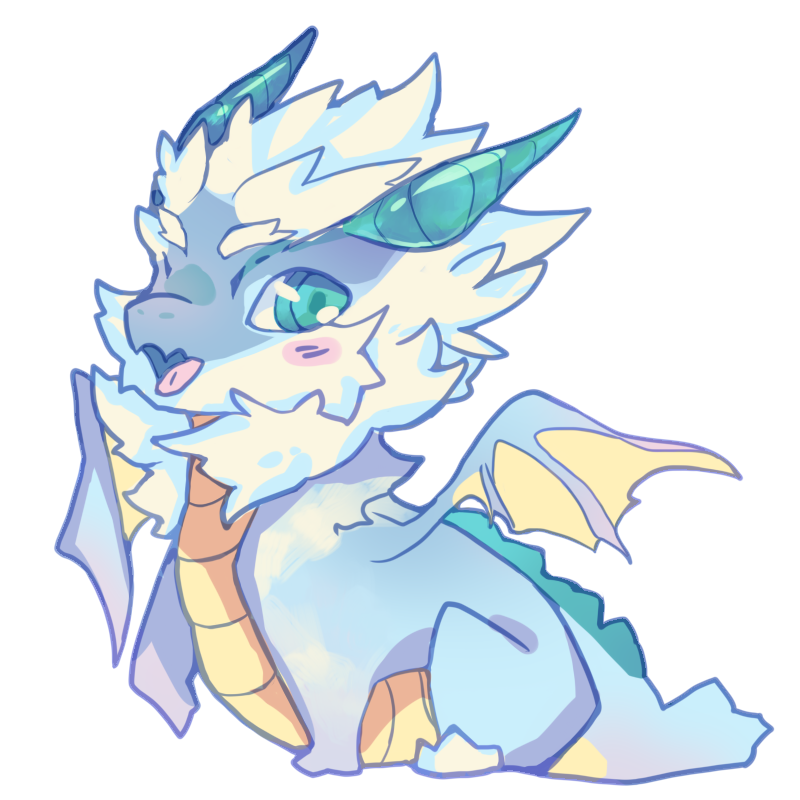
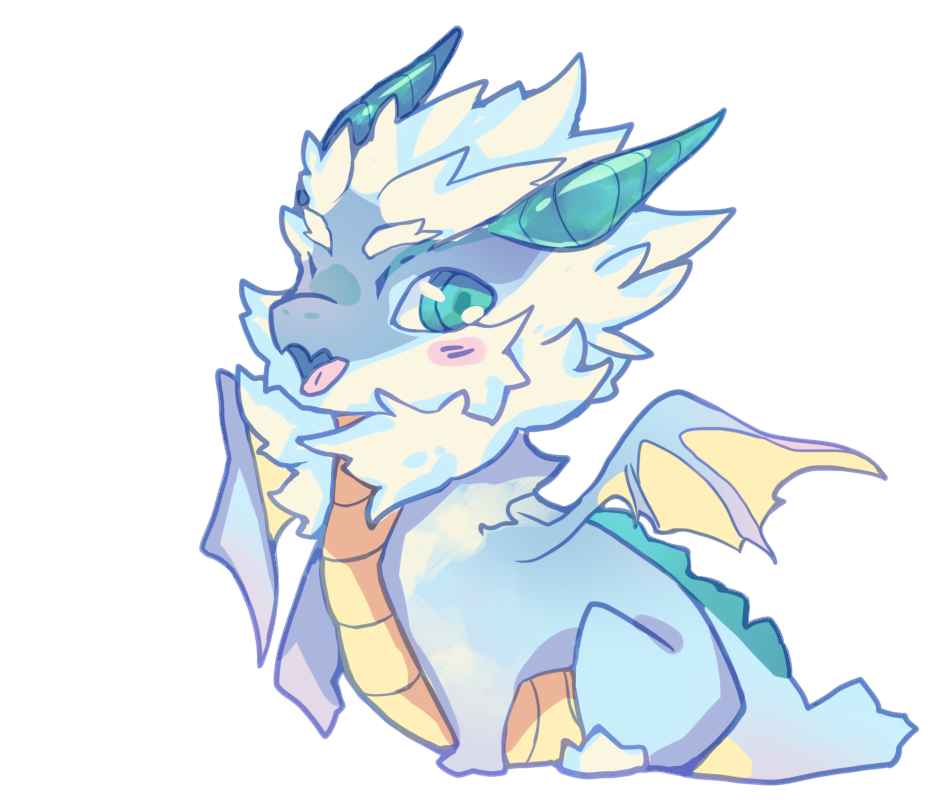
heart

diff --git a/src/components/MyPet.vue b/src/components/MyPet.vue
@@ -2,7 +2,13 @@
   <div>
     <!-- adopt -->
     <!-- <img id="pet" v-on:click="adoptClicked()" src="../assets/images/dragon.png" /> -->
-    <img id="pet" v-on:click="adoptClicked()" :src="require(`../assets/images/${petImage}.png`)" />
+    <img
+      id="pet"
+      @mousedown="mouseDown()"
+      @mouseup="mouseUp()"
+      v-on:click="adoptClicked()"
+      :src="require(`../assets/images/${petImage}.png`)"
+    />
 
     <!-- points -->
     <br />
@@ -169,6 +175,16 @@ export default {
         this.level++;
       }
       this.updatePointsDB();
+    },
+    mouseDown() {
+      if (!this.egg) {
+        this.petImage = "dragon-heart";
+      }
+    },
+    mouseUp() {
+      if (!this.egg) {
+        this.petImage = "dragon";
+      }
     }
   }
 };
